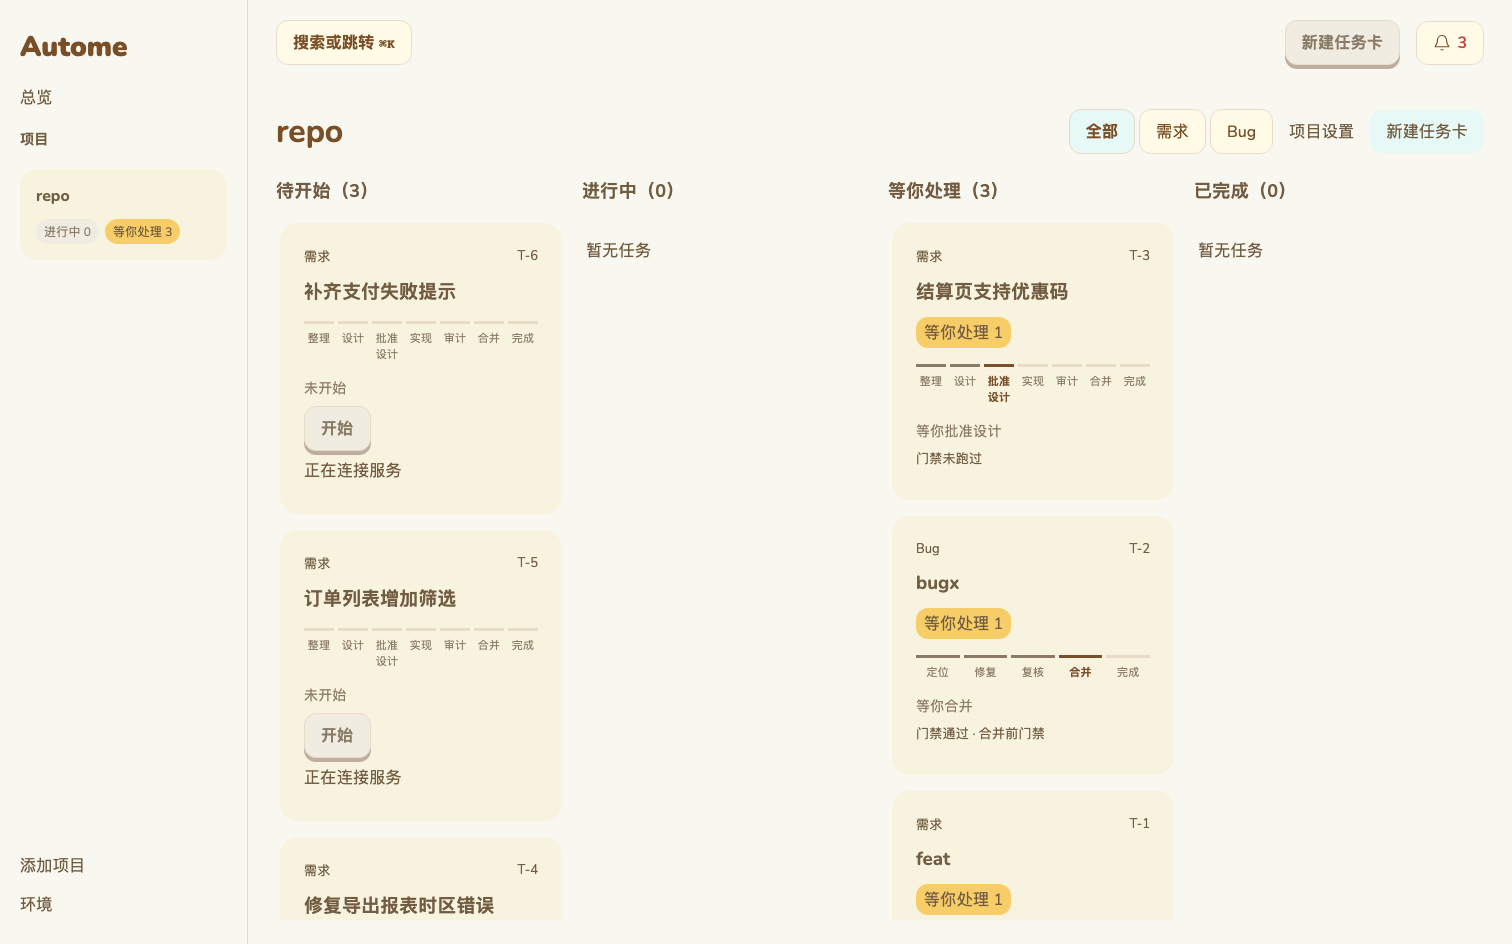
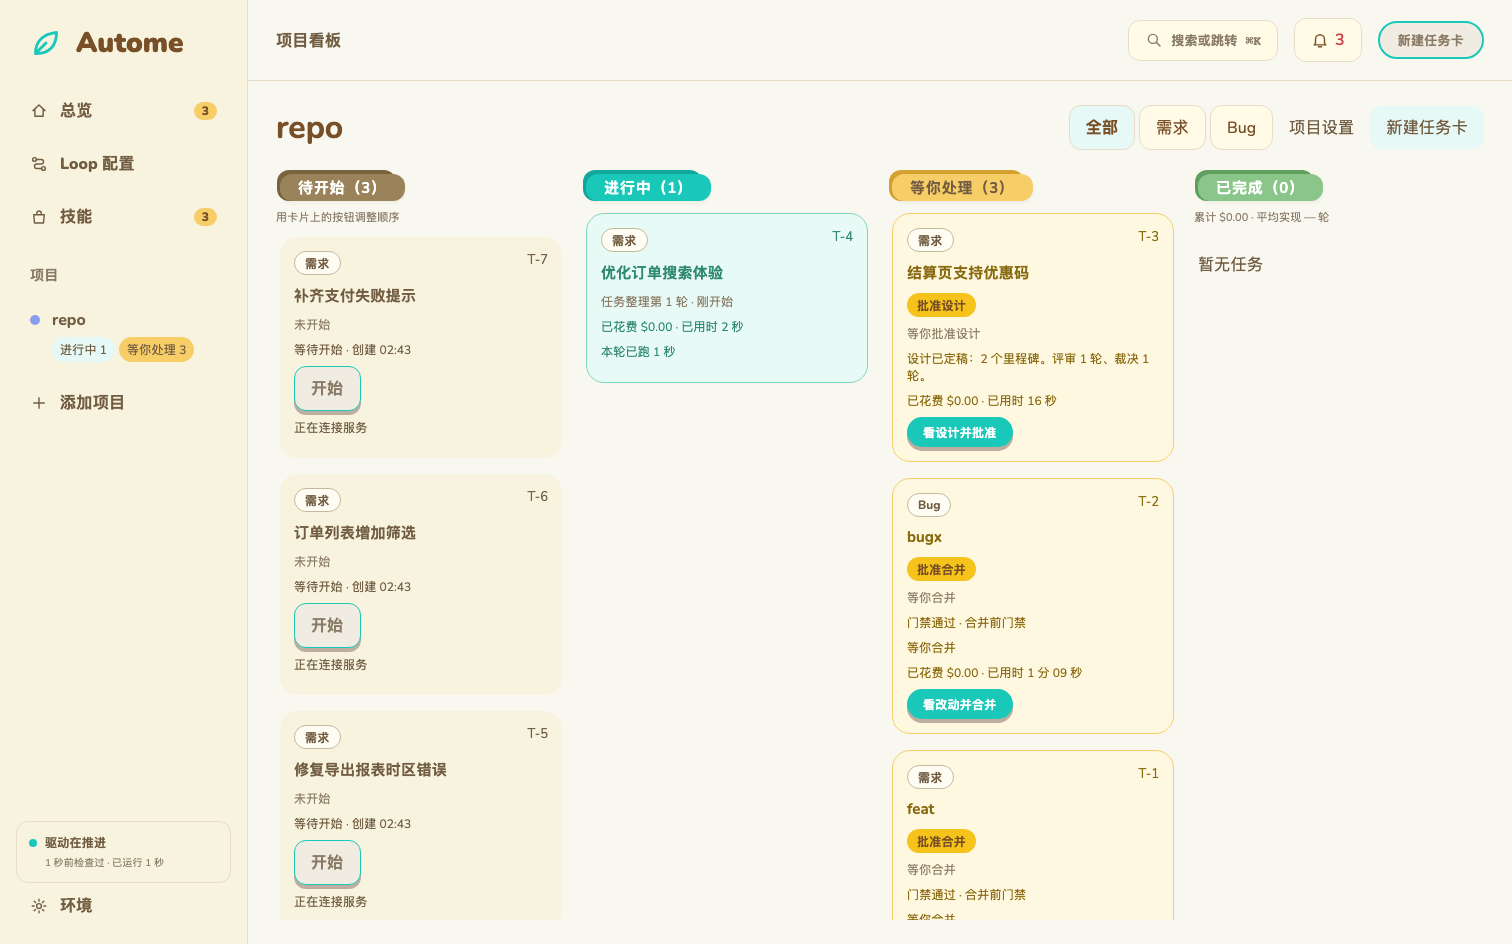
docs(web): replace README screenshots with audited captures

diff --git a/docs/web-面板按动森风格重做/evidence/M-11-r15-impl.md b/docs/web-面板按动森风格重做/evidence/M-11-r15-impl.md
@@ -1,0 +1,26 @@
+# M-11 · 实现 #15 · 截图交付修复，保持开放
+
+## 修复与结论
+
+按 G-Q3 交接，将审计生成的 `.autome/output/screens-M11/{dashboard,project,task,loop,skills}.png` 原样复制到 `docs/images/`，替换旧三图并补齐两图。未改产品代码、测试或其它里程碑。图片检查已绿；完整验收被本环境进程枚举权限阻断，故保持开放，不标待审，reopen 保持 1。
+
+审计判别检查就是项目已有的 `test/readme-images.test.ts` 与 `test/docs-web.test.ts`，原文已在项目测试体系内，本轮原样运行，未复制重复测试或降低断言。
+
+## 命令与结果
+
+- 红：`(cd apps/web && npx vitest run test/readme-images.test.ts test/docs-web.test.ts) && (cd apps/web && npx playwright test e2e/layout.spec.ts)`，复制前 vitest 共 6 例，3 过、3 败；缺五图集合及 loop.png 导致失败，浏览器段短路。原始日志 `.autome/output/m15-red.txt`。
+- 绿（缺图回归）：复制后原样运行上述命令，vitest 6 例全过。浏览器 setup 与 cleanup 均遇到 `spawnSync ps EPERM`，14 条布局用例未执行；完整命令未通过。日志 `.autome/output/m15-accept.txt`。未绕过预检、未用旧审计成功替代本轮实跑。
+- 快检：`sh scripts/ci-quick.sh --since 45312b1302147e2690fa8636e3762f4d51e42f79`，5 步全部通过，失败 0，19 秒；日志 `.autome/output/m15-quick.txt`。快检未执行测试用例，不能替代布局验收。
+- 本轮契约用例总数仍为 20（vitest 6 + layout 14），相对上一轮审计同一选集 20 差 0，无新增或删除。实际执行 6，相对上一轮审计执行 20 少 14，全部来自浏览器环境前置失败。相对上一实现轮实际执行 4 增加 2，来自 docs-web；红绿重复执行不重复计用例。上一审计所称「readme-images 6」实际为两个文件合计 6，readme-images 单文件 4。
+- 未运行全量门禁。
+
+## 标待审之前的自审清单
+
+1. **情形表逐行**：README 五图引用与目录恰好五图通过；五图 PNG 头及 1512×944 通过；Loop/技能非空通过；截图脚本说明通过。逐张打开五图：项目看板、任务详情、全局 Loop 配置与技能页面可见。总览有待批准任务，但画面出现 `undefined / undefined`，且进行中卡片不在截图可见区；不宣称视觉验收通过，交后续修复截图夹具或对应展示后重新生成。14 条一屏巡检均未运行。
+2. **失败分支**：缺图分支先红后绿，已由原有项目回归覆盖；G-Q3 环境失败分支按交接目录完成复制。浏览器进程枚举失败已记录，清理同样受限。授权拒绝、读盘失败、超时等产品分支不适用，本轮仅替换静态图片。去掉 data-scroll-region 的布局负向对照无法在此环境执行，不记通过。
+3. **全部迁移**：不适用，本轮未改变产品状态机、通道或交互，仅交付审计环境生成的静态截图。
+4. **输入域边界**：五图精确集合、24 字节非空阈值、PNG 签名、IHDR 与 1512×944 尺寸均由原测试检查通过；缺两图的边界已复现红。无新增用户输入域。
+
+## 下一步
+
+在有进程枚举权限的环境处理总览截图中的缺失值与进行中卡片可见性，重新生成对应真实截图并运行完整 M-11 验收。不能把本轮 6 条通过写成全部 20 条通过；本轮不关闭也不标待审。

diff --git a/docs/web-面板按动森风格重做/web-面板按动森风格重做.md b/docs/web-面板按动森风格重做/web-面板按动森风格重做.md
@@ -2,11 +2,11 @@
 
 status: 实现中
 design-round: 1/15
-implementation-round: 14/65
+implementation-round: 15/65
 current-milestone: M-11
 current-milestone-reopens: 1
 convergence-mode: normal
-next-action: 把审计产物 .autome/output/screens-M11/ 的五张 PNG 复制进 docs/images/（审计已在本机跑通截图脚本，1512×944），再跑 M-11 验收命令与快检，通过后标待审
+next-action: 修复总览截图中的 undefined / undefined 与进行中卡片不可见问题，重生成真实截图；在具备进程枚举权限的环境跑完整 M-11 验收，通过后标待审
 
 任务文件：`docs/web-面板按动森风格重做/web-面板按动森风格重做-task.md`
 任务卡：`docs/web-面板按动森风格重做/web-面板按动森风格重做-card.md`
@@ -934,7 +934,7 @@ argv 层由 `launcher.rs` 现有单元测试负责（见背景）。新增的只
 
 ### M-11 验收契约
 
-最新证据：docs/web-面板按动森风格重做/evidence/M-11-r14-audit.md · 退回（截图未替换） · 审计 #11
+最新证据：docs/web-面板按动森风格重做/evidence/M-11-r15-impl.md · 缺图回归通过，布局受阻，保持开放 · 实现 #15
 
 - 验收命令：`(cd apps/web && npx vitest run test/readme-images.test.ts test/docs-web.test.ts) && (cd apps/web && npx playwright test e2e/layout.spec.ts)`
 - 预期：

diff --git a/docs/web-面板按动森风格重做/retro.md b/docs/web-面板按动森风格重做/retro.md
@@ -37,3 +37,5 @@
 实现 #13 | M-11 | 开放，环境阻塞 | docs/web-面板按动森风格重做/evidence/M-11-r13-impl.md | ps EPERM，截图未生成
 实现 #14 | M-11 | 退回 + 截图环境阻塞（保持开放） | docs/web-面板按动森风格重做/evidence/M-11-r14-impl.md | ps EPERM，缺少两图
 审计 #11 | M-11 | 退回 + README截图交付 | docs/web-面板按动森风格重做/evidence/M-11-r14-audit.md | 无
+
+实现 #15 | M-11 | 五图补齐，保持开放 | docs/web-面板按动森风格重做/evidence/M-11-r15-impl.md | ps EPERM；总览截图缺失值待修
